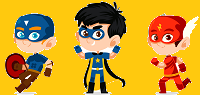
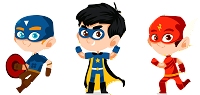
goodluckの最終調整

diff --git a/public/css/style.css b/public/css/style.css
@@ -460,23 +460,23 @@ position: absolute;
 }
 .comic .panel .hero1 img{
   position:absolute;
-  top:0px;
-  right:0px;
+  top:3px;
+  right:5px;
 }
 .comic .panel .hero2 img{
   position:absolute;
   bottom:0px;
-  right:0px;
+  right:5px;
 }
 .comic .panel .hero3 img{
   position:absolute;
   bottom:0px;
-  right:0px;
+  right:5px;
 }
 .comic .panel .hero4 img{
   position:absolute;
   bottom:0px;
-  right:0px;
+  right:5px;
 }
 .comic .panel .hero5 img{
   position:absolute;
@@ -485,7 +485,7 @@ position: absolute;
 }
 .comic .panel .hero6 img{
   position:absolute;
-  top:0px;
+  top:3px;
   left:85px;
 }
 .comic .panel .hero-all img{

diff --git a/resources/views/books/goodluck.blade.php b/resources/views/books/goodluck.blade.php
@@ -2,6 +2,7 @@
 
 @section('content')
 <a class="toppage" href="/">Top Pageに戻る</a>
+ <h1 class="kariru-search">借りる相手を選択してください。<br/>ボタンを押すと貸し出し依頼が送信されます。</h1>
     <div class="goodluck">
     <div class="panel-heading text-center">
         <img src="{{ $book->image_url }}" alt="" class="">

diff --git a/resources/views/books/finalgoodluck.blade.php b/resources/views/books/finalgoodluck.blade.php
@@ -43,7 +43,7 @@
   </div>
   <div class="panel">
     <p class="text top-right">Step 6</p>
-    <h2>KARIBONで<br/><a href="{{ route('books.show', $book_id) }}">本の感想を共有</a>しよう</h2>
+    <h2>KARIBONで<br/>しよう</h2>
     <div class="hero5" >
     <img src="/images/hero5.png" alt="hero">
     </div>
